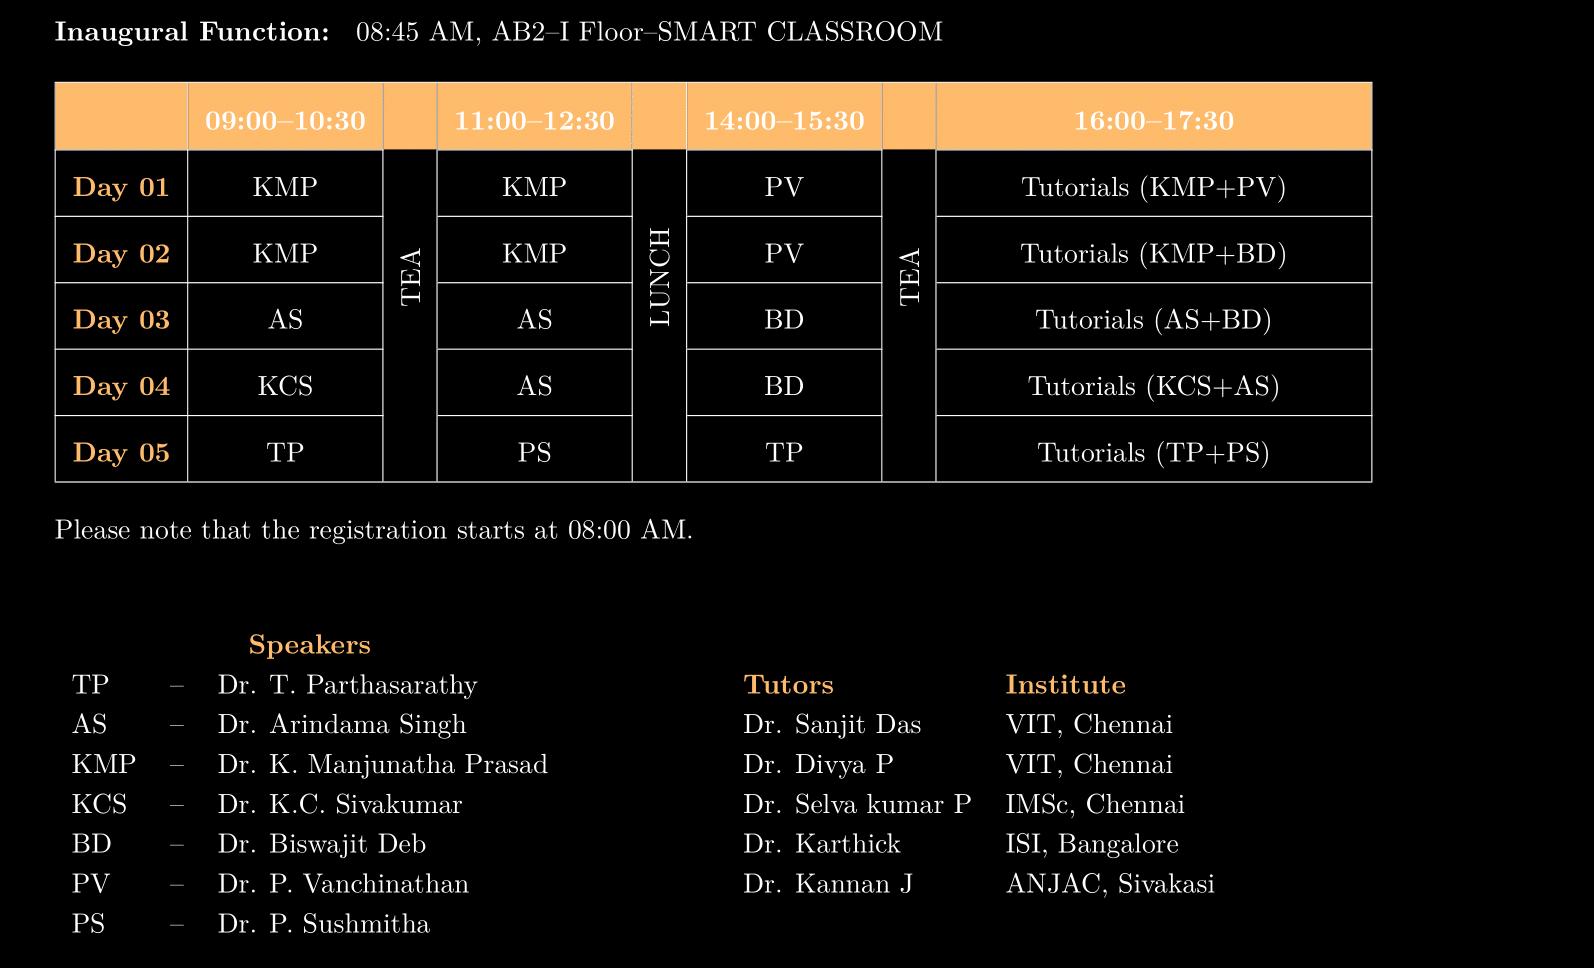
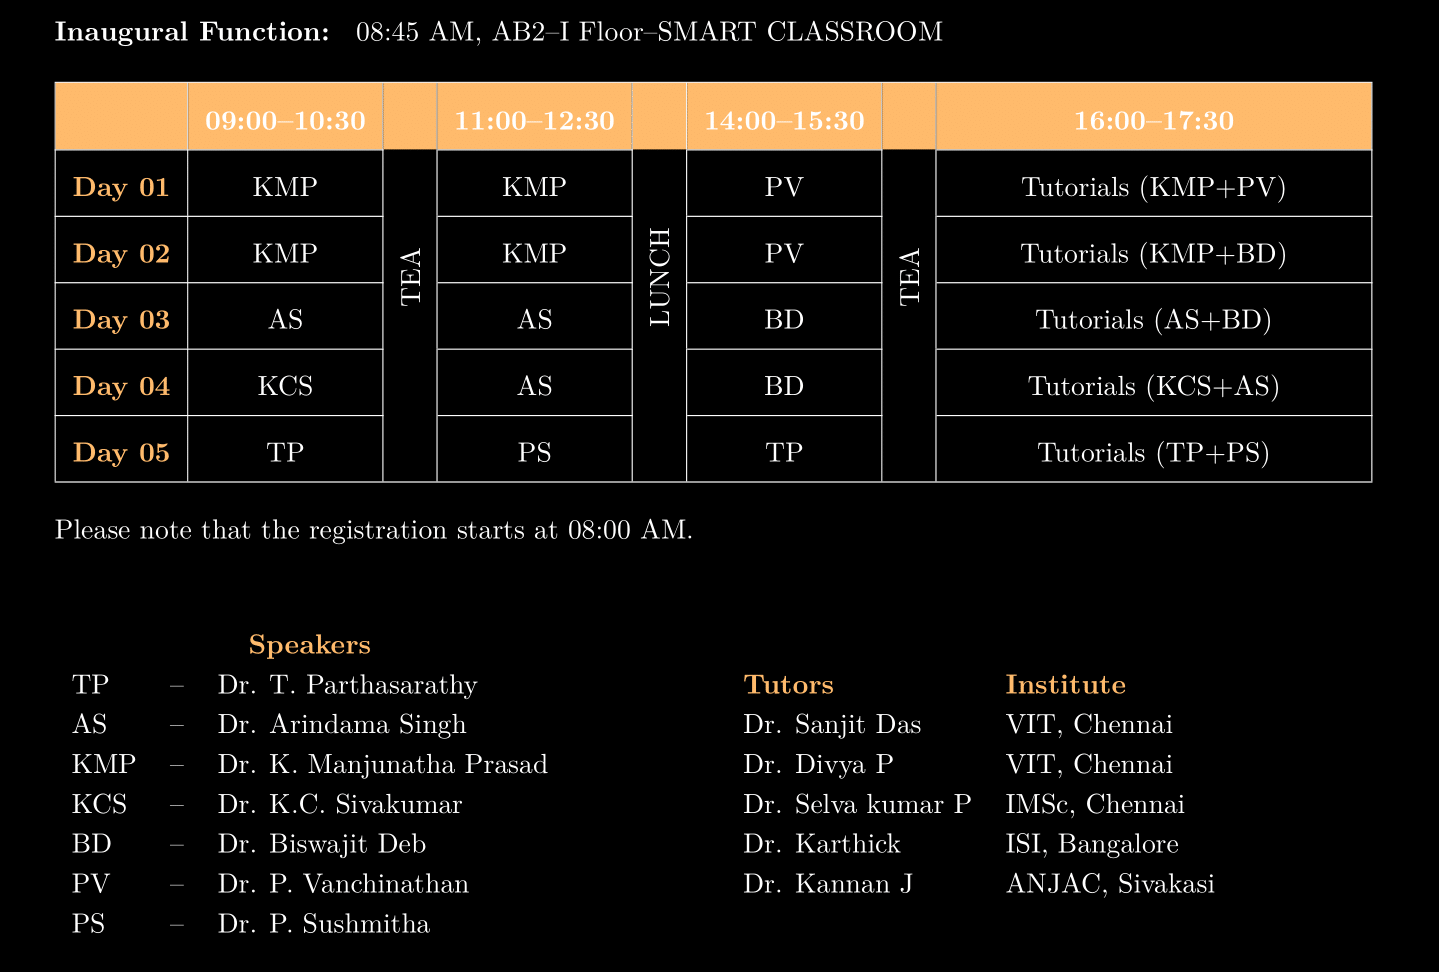
schedule img on mob  fixed

diff --git a/src/components/SchedulePage/scheduleContent.jsx b/src/components/SchedulePage/scheduleContent.jsx
@@ -29,7 +29,7 @@ export default function ScheduleContent() {
 
                 {/* <img className='images image-schedule schedule1' src={schedulepng} alt="schedule png" /> */}
                 <img className="images image-schedule schedule2" src={scheduleimg} alt='schedule png' />
-                {/* <img className="images image-schedule schedule3" src={scheduleimgmobi} alt='schedule png' /> */}
+                <img className="images image-schedule schedule3" src={scheduleimgmobi} alt='schedule png' />
                 {/*          
                 <img className='images image-schedule schedule1' src={schedulepng} alt="schedule png" />
                 <img className="images image-schedule schedule2" src={scheduleimg} alt='schedule png' />

diff --git a/src/mobile.css b/src/mobile.css
@@ -718,8 +718,15 @@ only screen and (min-resolution: 2dppx) {
 
   .schedule3 {
     z-index: 5;
-    height: 70%;
+    margin-left: 0;
+    height: 100%;
+    width: 100%;
 
+  }
+
+  .schedulebtn {
+    text-align: center;
+    align-items: center;
   }
 
 
@@ -994,6 +1001,9 @@ only screen and (min-resolution: 2dppx) {
   text-transform: uppercase;
 }
 
+.cont-image-containerasdfd {
+  text-align: center;
+}
 
 
 
